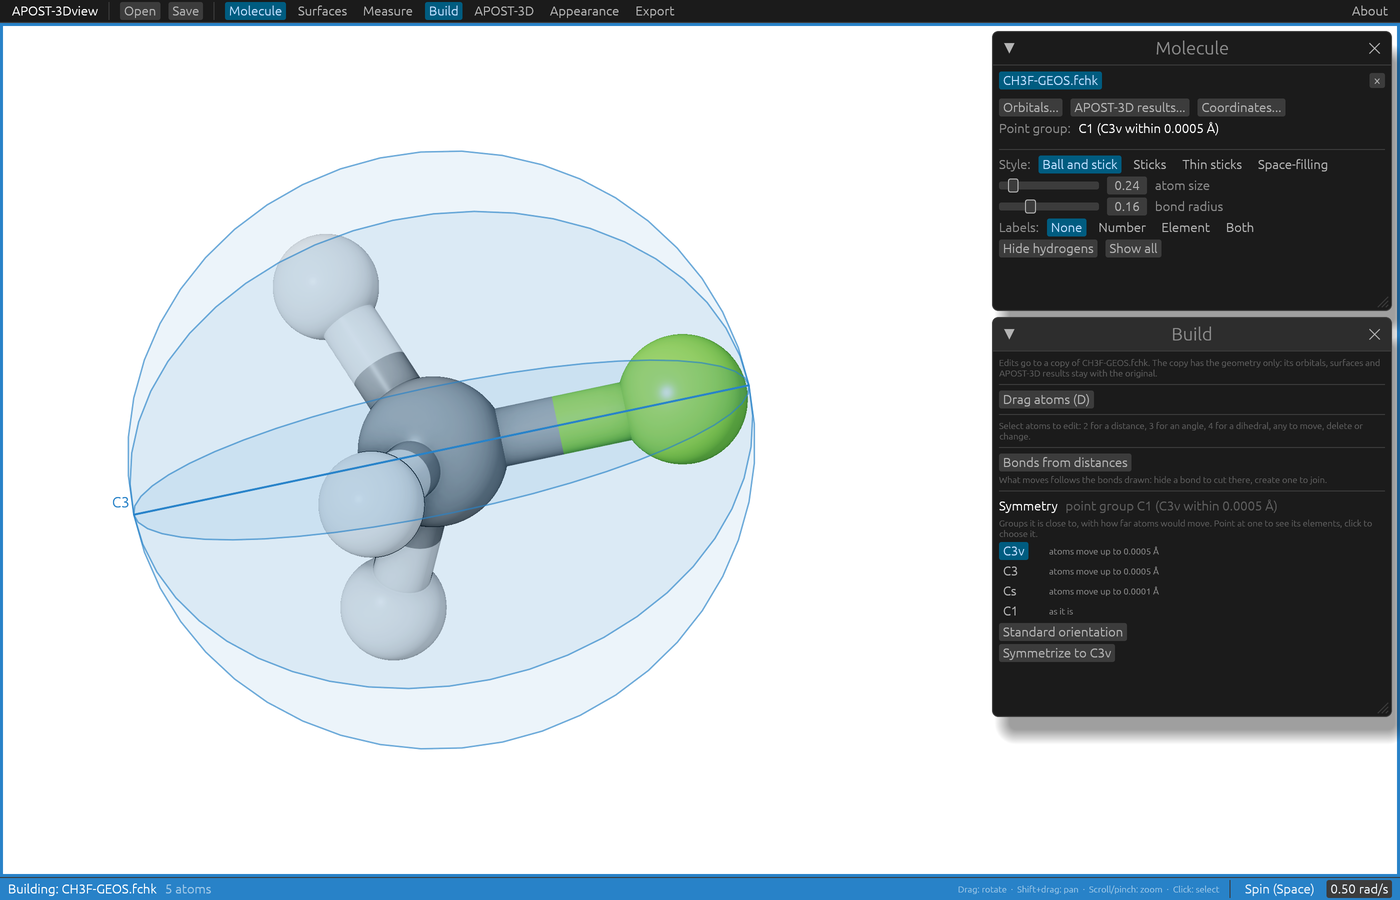
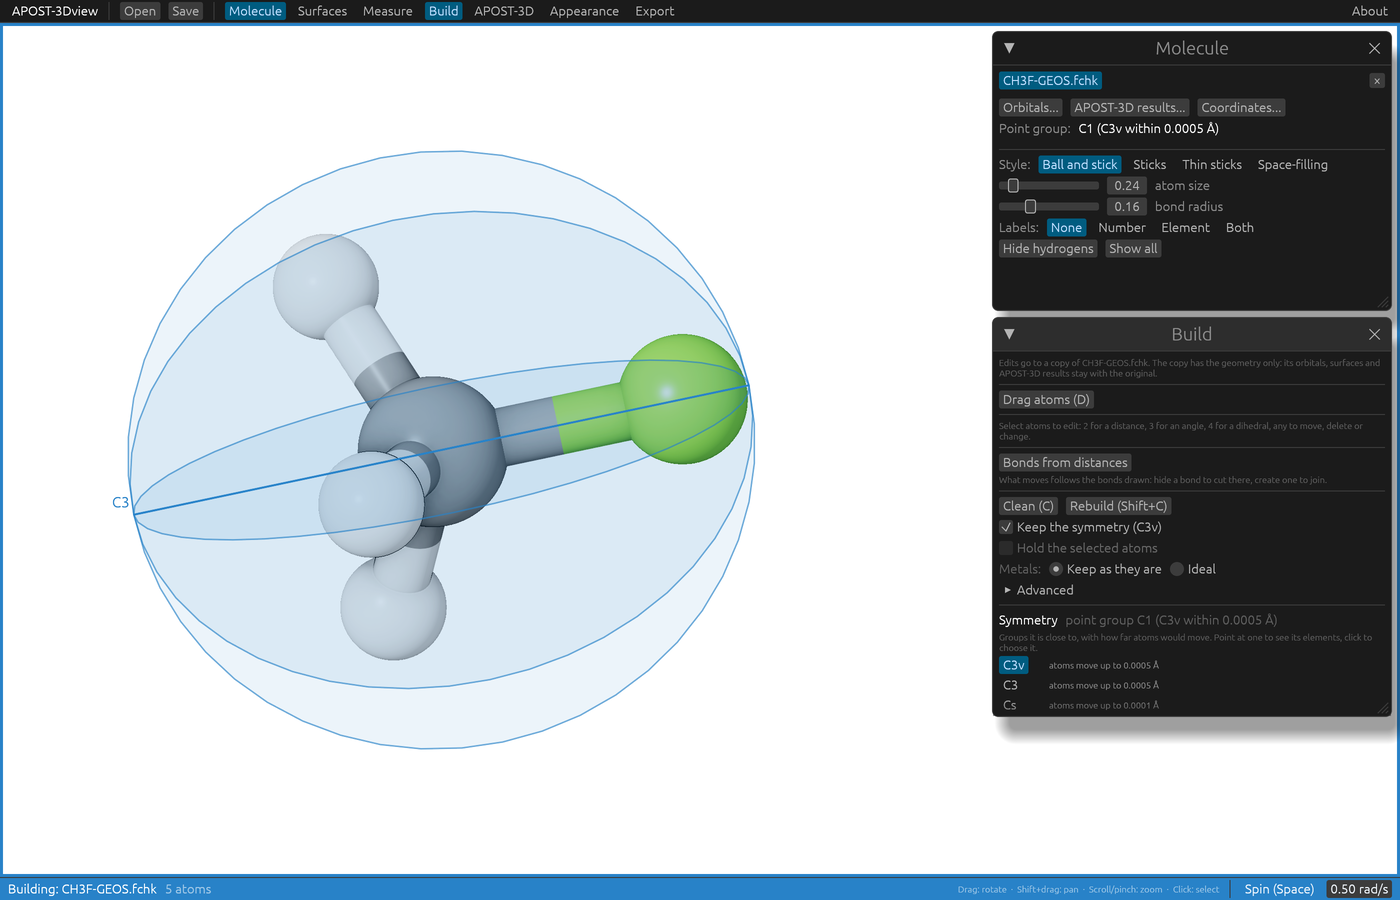
Clean (C) and Rebuild (Shift+C) in the Build window: tidy a geometry (symmetry kept, held atoms, metals kept or ideal, staggered preference), or build a badly drawn structure again from its bonds; documented with every key
All 41 reference scenes identical, session texts identical, workspace suite
and clippy pass.

Changed region(s): [[0.7064, 0.5289, 0.9214, 0.8089]]

diff --git a/crates/app/src/build.rs b/crates/app/src/build.rs
@@ -49,6 +49,27 @@ pub(crate) struct BuildArea {
     /// elements are drawn in the view.
     pub(crate) symmetry_choice: Option<(u64, usize)>,
     pub(crate) symmetry_hover: Option<usize>,
+    /// How Clean works.
+    pub(crate) clean: CleanSettings,
+}
+
+/// The Clean part of the Build window.
+pub(crate) struct CleanSettings {
+    /// Keep the structure's symmetry (the highest group within 0.01 Å).
+    pub(crate) keep_symmetry: bool,
+    /// The selected atoms don't move.
+    pub(crate) hold_selected: bool,
+    /// Metals: bond lengths from covalent radii and ideal polyhedron angles
+    /// (otherwise kept as they are).
+    pub(crate) ideal_metals: bool,
+    /// Single bonds turned toward staggered.
+    pub(crate) staggered: bool,
+}
+
+impl Default for CleanSettings {
+    fn default() -> Self {
+        Self { keep_symmetry: true, hold_selected: false, ideal_metals: false, staggered: true }
+    }
 }
 
 /// What a drag on an atom moves.
@@ -391,9 +412,66 @@ impl App {
         if ctx.input(|i| i.key_pressed(egui::Key::D) && i.modifiers.is_none()) {
             self.build.drag_atoms = !self.build.drag_atoms;
         }
+        if ctx.input(|i| i.key_pressed(egui::Key::C) && i.modifiers.is_none()) {
+            self.clean_structure();
+        }
+        if ctx.input(|i| i.key_pressed(egui::Key::C) && i.modifiers.shift_only()) {
+            self.rebuild_structure();
+        }
         let delete = ctx.input(|i| i.key_pressed(egui::Key::Delete) || i.key_pressed(egui::Key::Backspace));
         if delete && self.active_structure.is_some_and(|i| !self.structures[i].selected_atoms.is_empty()) {
             self.delete_selected_atoms();
+        }
+    }
+
+    /// Clean: the active structure tidied (one edit). See
+    /// `apost3dview_build::clean`.
+    pub(crate) fn clean_structure(&mut self) {
+        let Some(active) = self.active_structure else { return };
+        let settings = &self.build.clean;
+        let symmetry = if settings.keep_symmetry {
+            self.symmetry(active).and_then(|analysis| {
+                let exact = analysis.group_within(apost3dview_build::PROGRAM_TOLERANCE);
+                let group = analysis.highest_above(exact, crate::symmetry::ORIENTATION_TOLERANCE).unwrap_or(exact);
+                (!group.operations.is_empty() && group.order > 1).then(|| (group.label.clone(), apost3dview_build::KeptSymmetry {
+                    center: analysis.center,
+                    operations: group.operations.clone(),
+                    permutations: group.permutations.clone(),
+                }))
+            })
+        } else {
+            None
+        };
+        let held = if settings.hold_selected { self.structures[active].selected_atoms.clone() } else { Vec::new() };
+        let options = apost3dview_build::CleanOptions { held, ideal_metals: settings.ideal_metals, twist: settings.staggered, symmetry: symmetry.as_ref().map(|(_, s)| s.clone()) };
+        let mut moved = 0.0;
+        let done = self.edit(|s| {
+            let hidden = s.drawn_hidden_bonds();
+            let bonds: Vec<(usize, usize)> = s.molecule.bonds.iter().enumerate().filter(|(k, _)| !hidden.contains(k)).map(|(_, b)| (b.atom_a, b.atom_b)).collect();
+            let result = apost3dview_build::clean(&s.molecule.atomic_numbers, &s.molecule.positions, &bonds, &options);
+            moved = result.largest_move;
+            Ok(Edited::Positions(result.positions))
+        });
+        if done {
+            let kept = symmetry.map(|(label, _)| format!(", {label} kept")).unwrap_or_default();
+            let moved = self.length_text(moved);
+            self.show_status(format!("Cleaned{kept}: atoms moved up to {moved}"));
+        }
+    }
+
+    /// Rebuild: a sensible structure from the bonds alone, for drawings too
+    /// poor for Clean (one edit). See `apost3dview_build::rebuild`.
+    pub(crate) fn rebuild_structure(&mut self) {
+        let done = self.edit(|s| {
+            let hidden = s.drawn_hidden_bonds();
+            let bonds: Vec<(usize, usize)> = s.molecule.bonds.iter().enumerate().filter(|(k, _)| !hidden.contains(k)).map(|(_, b)| (b.atom_a, b.atom_b)).collect();
+            if bonds.is_empty() {
+                return Err("There are no bonds to rebuild from: create them first (or open the structure again).".into());
+            }
+            Ok(Edited::Positions(apost3dview_build::rebuild(&s.molecule.atomic_numbers, &s.molecule.positions, &bonds, 16)))
+        });
+        if done {
+            self.show_status("Rebuilt from the bonds: check them, and the result, before a calculation");
         }
     }
 

diff --git a/crates/app/src/windows/build.rs b/crates/app/src/windows/build.rs
@@ -40,6 +40,8 @@ impl App {
             ui.separator();
             self.show_build_edits(ui, active);
             ui.separator();
+            self.show_clean(ui, active);
+            ui.separator();
             self.show_symmetry(ui, active);
         });
         self.record_column_window(ctx, ToolWindow::Build, response.map(|r| r.response));
@@ -111,6 +113,50 @@ impl App {
                     .on_hover_text("Everything bonded to the atom grabbed, such as a whole ligand. Hide a bond to cut a piece off.");
             });
         }
+    }
+
+    /// Clean and how it works.
+    fn show_clean(&mut self, ui: &mut egui::Ui, active: usize) {
+        ui.horizontal(|ui| {
+            if ui
+                .button("Clean (C)")
+                .on_hover_text("Tidies the geometry from where it is: typical bond lengths, angles from the electron domains (VSEPR), flat rings, no overlapping atoms. A starting geometry, not an optimization.")
+                .clicked()
+            {
+                self.clean_structure();
+            }
+            if ui
+                .button("Rebuild (Shift+C)")
+                .on_hover_text("For a badly drawn structure: built again from its bonds alone (which atoms are bonded, and the handedness the drawing shows), then cleaned. The bonds must be right: check them first.")
+                .clicked()
+            {
+                self.rebuild_structure();
+            }
+        });
+        let group = self.symmetry(active).map(|a| {
+            let exact = a.group_within(apost3dview_build::PROGRAM_TOLERANCE);
+            a.highest_above(exact, crate::symmetry::ORIENTATION_TOLERANCE).unwrap_or(exact).label.clone()
+        });
+        let keep = match &group {
+            Some(label) if label != "C1" => format!("Keep the symmetry ({label})"),
+            _ => "Keep the symmetry".to_string(),
+        };
+        ui.checkbox(&mut self.build.clean.keep_symmetry, keep).on_hover_text("The point group the structure has (within 0.01 \u{c5}) stays exact");
+        let any_selected = !self.structures[active].selected_atoms.is_empty();
+        ui.add_enabled(any_selected, egui::Checkbox::new(&mut self.build.clean.hold_selected, "Hold the selected atoms"))
+            .on_hover_text("They don't move; the rest adapts around them")
+            .on_disabled_hover_text("Select atoms to hold them in place");
+        ui.horizontal_wrapped(|ui| {
+            ui.label(RichText::new("Metals:").weak());
+            ui.radio_value(&mut self.build.clean.ideal_metals, false, "Keep as they are")
+                .on_hover_text("Bond lengths and angles at metals kept (simple rules don't describe them well)");
+            ui.radio_value(&mut self.build.clean.ideal_metals, true, "Ideal")
+                .on_hover_text("Bond lengths from covalent radii, angles snapped to the nearest ideal polyhedron (for badly drawn complexes)");
+        });
+        egui::CollapsingHeader::new("Advanced").id_salt("clean_advanced").show(ui, |ui| {
+            ui.checkbox(&mut self.build.clean.staggered, "Prefer staggered single bonds")
+                .on_hover_text("A weak pull toward staggered conformations (methyl groups, chains); off to keep a conformation set on purpose");
+        });
     }
 
     /// The point group, the groups the structure is close to (each with

diff --git a/crates/app/tests/build.rs b/crates/app/tests/build.rs
@@ -270,3 +270,51 @@ fn closed_build_leaves_the_app_as_before() {
     click(&mut harness, "Build");
     assert!(harness.query_by_label_contains("Building:").is_none());
 }
+
+#[test]
+fn clean_tidies_the_copy_and_keeps_its_symmetry() {
+    let mut harness = app_with(vec![ethane()]);
+    open_build(&mut harness);
+    let ([c1, c2], _) = ethane_atoms(&harness);
+    harness.state_mut().select_atoms(&[c1, c2]);
+    harness.run_steps(2);
+    harness.state_mut().build_set_value(2.0);
+    harness.state_mut().select_atoms(&[]);
+    harness.run_steps(3);
+    harness.query_by_label_contains("Keep the symmetry (D3d)").expect("the group kept is named");
+    // C cleans (only with no field focused).
+    harness.key_press(egui::Key::C);
+    harness.run_steps(3);
+    let p = harness.state().atom_positions();
+    assert!((distance(&p, c1, c2) - 1.52).abs() < 0.01, "C-C {}", distance(&p, c1, c2));
+    assert!(toasts(&harness).iter().any(|t| t.starts_with("Cleaned, D3d kept")), "{:?}", toasts(&harness));
+    assert!(harness.query_all_by_label("D3d").next().is_some(), "still D3d");
+    harness.query_by_label_contains("2 edits").expect("one step for Clean");
+    click(&mut harness, "Undo");
+    assert!((distance(&harness.state().atom_positions(), c1, c2) - 2.0).abs() < 1e-4);
+}
+
+#[test]
+fn rebuild_makes_a_sensible_structure_from_the_bonds() {
+    // Ethane flattened onto a plane, as a hurried drawing.
+    let dir = scratch_dir("build-rebuild");
+    let path = dir.join("flat-ethane.xyz");
+    std::fs::write(
+        &path,
+        "8\nflat ethane\nC 0.0 0.0 0.0\nC 1.54 0.0 0.0\nH -0.5 0.95 0.0\nH -0.5 -0.95 0.0\nH -1.05 0.1 0.0\nH 2.04 0.95 0.0\nH 2.04 -0.95 0.0\nH 2.59 -0.1 0.0\n",
+    )
+    .unwrap();
+    let mut harness = app_with(vec![path]);
+    open_build(&mut harness);
+    harness.key_press_modifiers(egui::Modifiers::SHIFT, egui::Key::C);
+    harness.run_steps(3);
+    assert!(toasts(&harness).iter().any(|t| t.starts_with("Rebuilt from the bonds")), "{:?}", toasts(&harness));
+    let p = harness.state().atom_positions();
+    assert!((distance(&p, 0, 1) - 1.52).abs() < 0.02, "C-C {}", distance(&p, 0, 1));
+    // Three-dimensional now: the hydrogens out of any one plane.
+    let z: Vec<f32> = p.iter().map(|v| v[2]).collect();
+    let spread = z.iter().cloned().fold(f32::MIN, f32::max) - z.iter().cloned().fold(f32::MAX, f32::min);
+    assert!(spread > 1.0, "still flat: {spread}");
+    click(&mut harness, "Undo");
+    assert!(harness.state().atom_positions().iter().all(|v| v[2] == 0.0));
+}

diff --git a/crates/app/tests/guide.rs b/crates/app/tests/guide.rs
@@ -338,6 +338,10 @@ fn editing_a_molecule() {
     guide.state_mut().select_atoms(&[c1, c2]);
     guide.run_steps(3);
     sees_text(&guide, "Turn about");
+    for label in ["Clean (C)", "Rebuild (Shift+C)", "Hold the selected atoms", "Metals:", "Keep as they are", "Ideal", "Advanced"] {
+        sees(&guide, label);
+    }
+    sees_text(&guide, "Keep the symmetry");
     frame(&mut guide, 0.4, 0.25, 1.9);
     guide.state_mut().pan_view(1.2, 0.0);
     settle(&mut guide);

diff --git a/CHANGELOG.md b/CHANGELOG.md
@@ -6,7 +6,7 @@ What changed in each version of APOST-3Dview, for its users. The newest version 
 
 ### New
 - **Reaction paths**: a multi-frame `.xyz` (IRC, NEB, an optimization) opens as one structure whose frames play in the window. Frames are lined up onto each other (or on chosen atoms, or kept as in the file), bonds grow and fade as they form and break, geometries in between are smooth, and the energy profile from the comment lines can be clicked to jump along the path. Views can be kept at chosen frames, so the molecule turns as the path plays. The GIF export records what plays. Example in `examples/reaction-path/`, guide chapter "Reaction paths and other frames".
-- **Editing a molecule**: a Build window (switched on at the first start, or in About > Features...) sets distances, angles and dihedrals (moving the last atom with its side, alone, or both sides by half), turns a group about a bond, moves, deletes and changes atoms. Edits go to a copy under the original, which never changes, can be undone and redone, and the copy is saved as .xyz or kept in sessions. Symmetry: every structure's point group in the Molecule window (as Gaussian, ORCA or Q-Chem would see it, and the higher group it is close to), and in the Build window the groups it is close to with their elements drawn in the view, Symmetrize, and Standard orientation. Atoms can also be dragged with the mouse (Drag atoms, key D: move, turn, toward or away, a whole piece at once). While the window is open the view has a blue frame and the status bar is blue. Guide chapter "Editing a molecule", and every key and gesture in "Mouse and keyboard".
+- **Editing a molecule**: a Build window (switched on at the first start, or in About > Features...) sets distances, angles and dihedrals (moving the last atom with its side, alone, or both sides by half), turns a group about a bond, moves, deletes and changes atoms. Edits go to a copy under the original, which never changes, can be undone and redone, and the copy is saved as .xyz or kept in sessions. Clean (C) tidies a geometry in milliseconds (typical bond lengths, VSEPR angles, flat rings, no overlaps, symmetry kept), and Rebuild (Shift+C) builds a badly drawn structure again from its bonds alone. Symmetry: every structure's point group in the Molecule window (as Gaussian, ORCA or Q-Chem would see it, and the higher group it is close to), and in the Build window the groups it is close to with their elements drawn in the view, Symmetrize, and Standard orientation. Atoms can also be dragged with the mouse (Drag atoms, key D: move, turn, toward or away, a whole piece at once). While the window is open the view has a blue frame and the status bar is blue. Guide chapter "Editing a molecule", and every key and gesture in "Mouse and keyboard".
 - **Several surfaces in one panel**: a panel of a figure can hold any set of surfaces of one structure, drawn together in their own colors (a metal d EFO with a ligand EFO, as in bonding papers), with their captions joined by " + ".
 
 ### Changed

diff --git a/docs/src/building.md b/docs/src/building.md
@@ -63,6 +63,19 @@ While it is on:
 
 Each drag is one edit: the first one makes the copy, and **Undo** takes a whole drag back. While you drag, the status bar says how far the atoms moved or how much they turned, and measurement labels follow the atoms, so you can drag a distance close to what you want by eye and then **Set** it exactly. Over an atom, the pointer becomes a hand.
 
+## Clean and Rebuild
+
+**Clean (C)** tidies the geometry from where it is: bond lengths typical for the two elements and the kind of bond (single, aromatic, double or triple, read from how long the bond is now), angles from the atom's electron domains (VSEPR: 180° for two, 120° for three, 109.5° for four, a little less with lone pairs, so water is bent and ammonia pyramidal), flat aromatic and sp2 centres, staggered single bonds, and no atoms on top of each other. It takes milliseconds, and it is a starting geometry for a calculation, not an optimization: the lengths and angles are typical values, not this molecule's.
+
+- **Keep the symmetry** (on): the point group the structure has to within 0.01 Å stays exact.
+- **Hold the selected atoms**: they don't move, and the rest adapts around them.
+- **Metals:** **Keep as they are** (the default) leaves bond lengths and angles at metals alone, since simple rules describe them poorly. **Ideal** takes metal-ligand lengths from covalent radii and snaps the angles at a metal to the nearest ideal polyhedron (octahedral, tetrahedral, square planar, trigonal bipyramidal), for badly drawn complexes.
+- Under **Advanced**, **Prefer staggered single bonds** can be switched off, to keep a conformation you set on purpose.
+
+**Rebuild (Shift+C)** is for drawings too poor for Clean: everything flat, atoms on top of each other, a ring folded through itself. It builds the structure again from its bonds alone (which atoms are bonded to which) and the handedness of any stereocentre the drawing shows, then cleans it. The coordinates themselves hardly matter, so the bonds must be right: look at them before rebuilding, and fix a missing or extra one with **Create bond** or by hiding it (Molecule window). The result is one sensible conformation, not necessarily the one you meant, and it is placed where the drawing was.
+
+Both are one edit each, so **Undo** takes them back.
+
 ## Symmetry
 
 The Molecule window shows every structure's point group on the **Point group:** line, also without the Build window. It is the group a quantum chemistry program would find: atoms where the symmetry puts them to within 0.0001 Å, about as tight as Gaussian, ORCA (10⁻⁴ bohr) and Q-Chem (10⁻⁵). A geometry optimized without symmetry is rarely that exact, so when the structure is close to a higher group the line names it too, with how far the atoms are from it: "C1 (C3v within 0.0005 Å)".

diff --git a/docs/src/controls.md b/docs/src/controls.md
@@ -28,6 +28,8 @@ Only while the [Build window](building.md) is open. Closing it gives every key a
 | Redo | <kbd>Cmd</kbd>+<kbd>Shift</kbd>+<kbd>Z</kbd> (<kbd>Ctrl</kbd>+<kbd>Shift</kbd>+<kbd>Z</kbd>), or **Redo** |
 | Delete the selected atoms | <kbd>Delete</kbd> (or <kbd>Backspace</kbd>), or **Delete selected atoms** |
 | Set a distance, angle or dihedral | Select 2, 3 or 4 atoms, type the value, <kbd>Enter</kbd> or **Set** |
+| Clean the geometry | <kbd>C</kbd>, or **Clean (C)** |
+| Rebuild a badly drawn structure from its bonds | <kbd>Shift</kbd>+<kbd>C</kbd>, or **Rebuild (Shift+C)** |
 | Switch dragging atoms on or off | <kbd>D</kbd>, or **Drag atoms (D)** (off whenever the Build window opens) |
 
 With **Drag atoms (D)** on:
